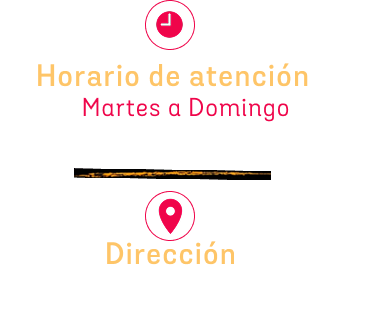
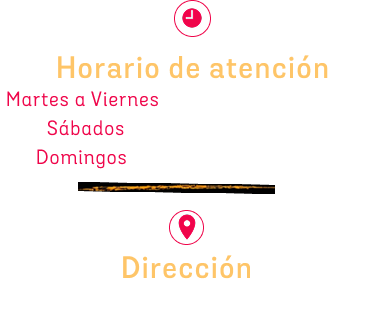
feat: update footer hours and replace pop-up images

Changed region(s): [[0.0, 0.0, 0.8871, 0.423], [0.0887, 0.423, 0.7392, 0.8459]]

diff --git a/src/app/shared/footer/footer.html b/src/app/shared/footer/footer.html
@@ -15,7 +15,9 @@
                 <h3>HORARIO</h3>
             </div>
             <div>
-                <p>Martes a Domingo de 13:00 a 22:00</p>
+                <p>Martes a Viernes de 4pm a 11pm</p>
+                <p>Sábado de 3pm a 12am</p>
+                <p>Domingo de 5pm a 11pm</p>
             </div>
         </div>
         <div class="direccion" >
